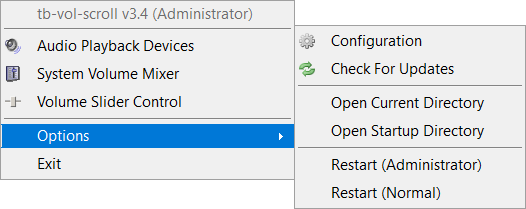
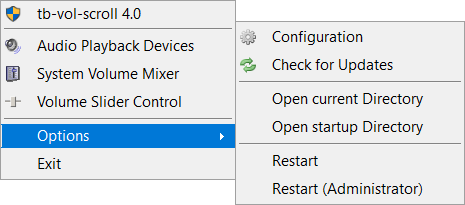
Bump version to 4.0

diff --git a/Properties/AssemblyInfo.cs b/Properties/AssemblyInfo.cs
@@ -32,5 +32,5 @@ using System.Runtime.InteropServices;
 // You can specify all the values or you can default the Build and Revision Numbers
 // by using the '*' as shown below:
 // [assembly: AssemblyVersion("1.0.*")]
-[assembly: AssemblyVersion("3.9.1")]
-[assembly: AssemblyFileVersion("3.9.1")]
+[assembly: AssemblyVersion("4.0")]
+[assembly: AssemblyFileVersion("4.0")]

diff --git a/README.md b/README.md
@@ -11,8 +11,8 @@ Simple and customizable utility to enable audio control by scrolling inside the 
 - Hold <kbd>SHIFT</kbd>: Cycle through available audio playback devices.
 
 ###### Available Menus
-- System Volume Mixer: Opens the built-in Windows volume mixer for per-application audio volume control.
 - Audio Playback Devices: Switch default audio playback device from a list of available devices.
+- System Volume Mixer: Opens the built-in Windows volume mixer for per-application audio volume control.
 - Volume Slider Control: Open a popup with a volume slider and peak volume meter.
 
 ### Configuration
@@ -34,8 +34,7 @@ Simple and customizable utility to enable audio control by scrolling inside the 
   - Enable/disable requesting of Administrator permissions on start
   - Enable/disable reverse scrolling direction for scroll actions
 
-## Preview (not always up-to-date)
-
+## Preview
 
 #### Volume bar
 ![Volume bar](Images/gif_volumebar.gif?raw=true)
@@ -64,3 +63,4 @@ Simple and customizable utility to enable audio control by scrolling inside the 
 ## Thanks
  #
 - [Taskbar.cs by Franz Alex Gaisie-Essilfie](https://gist.githubusercontent.com/franzalex/e747e6b318ab8f328aa02301f25ec534/raw/84f731f2e2396dc8ce28b564a75b712bf56b184f/Taskbar.cs)
+- [CustomFontDialog by umaranis](https://github.com/umaranis/CustomFontDialog)
